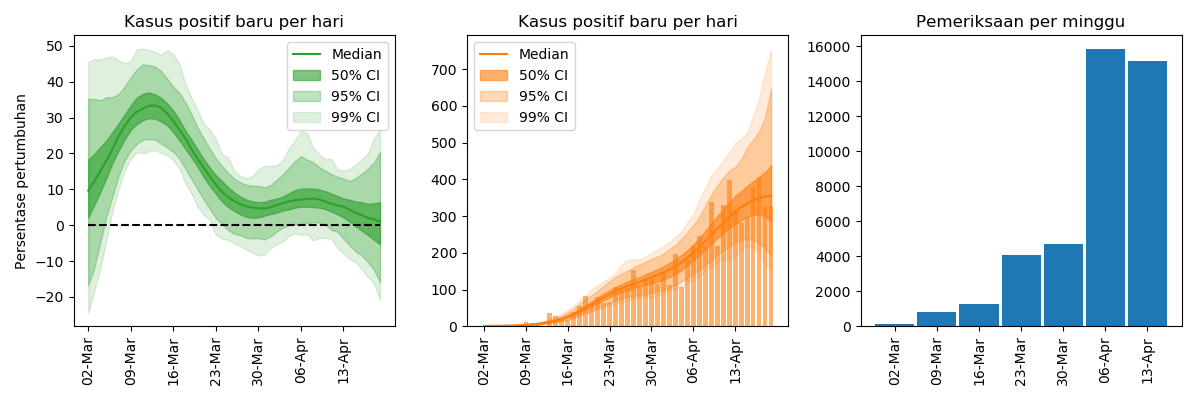
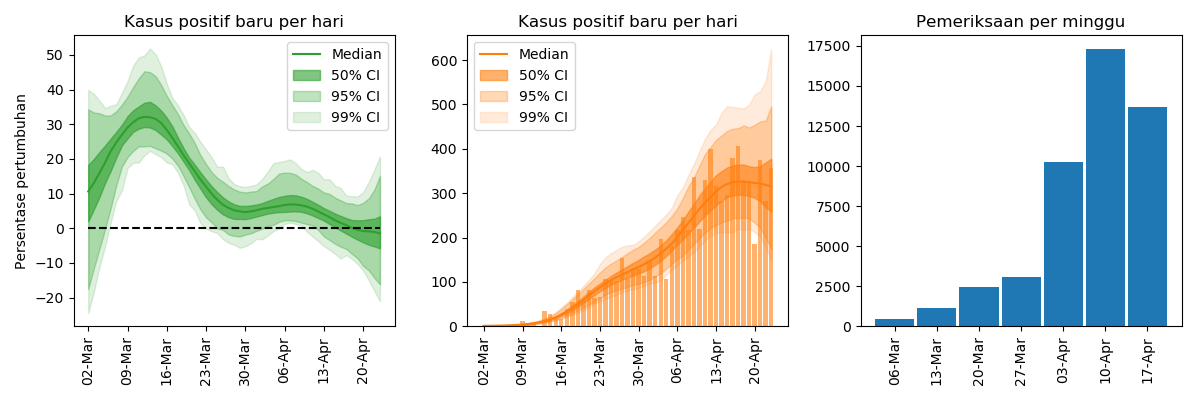
Test update

diff --git a/idcovid19.md b/idcovid19.md
@@ -8,35 +8,40 @@ permalink: /idcovid19/
 ## Apakah kurva penyebaran telah turun?
 
 Sumber data: [KawalCOVID19](https://kawalcovid19.id/)<br/>
-Diperbarui pada: 19/04/2020<br/>
+Diperbarui pada: 23/04/2020<br/>
 Metode dapat dilihat di [sini]({{ site.baseurl }}/2020/04/17/COVID19-has-the-curve-flatten/)
 
 #### Indonesia
 
-Hasil: belum dapat disimpulkan
+Probabilitas menurun: \\(38\%\\)<br/>
+Hasil: kurva terlihat turun, tapi jumlah tes juga menurun
 
 <img title="Indonesia" src="{{ site.baseurl }}/assets/idcovid19-daily/id_new_cases.png" width="100%"/>
 
 #### Jakarta
 
-Hasil: belum dapat disimpulkan
+Probabilitas menurun: \\(28\%\\)<br/>
+Hasil: kurva terlihat turun, tapi jumlah tes juga menurun
 
 <img title="Jakarta" src="{{ site.baseurl }}/assets/idcovid19-daily/idprov_jakarta_new_cases.png" width="100%"/>
 
 #### Jabar
 
-Hasil: belum dapat disimpulkan
+Probabilitas menurun: \\(69\%\\)<br/>
+Hasil: ada indikasi penurunan, tapi belum dapat dipastikan
 
 <img title="Jabar" src="{{ site.baseurl }}/assets/idcovid19-daily/idprov_jabar_new_cases.png" width="100%"/>
 
 #### Jatim
 
+Probabilitas menurun: \\(14\%\\)<br/>
 Hasil: belum dapat disimpulkan
 
 <img title="Jatim" src="{{ site.baseurl }}/assets/idcovid19-daily/idprov_jatim_new_cases.png" width="100%"/>
 
 #### Sulsel
 
-Hasil: belum dapat disimpulkan
+Probabilitas menurun: \\(38\%\\)<br/>
+Hasil: kurva terlihat turun, tapi jumlah tes juga menurun
 
 <img title="Sulsel" src="{{ site.baseurl }}/assets/idcovid19-daily/idprov_sulsel_new_cases.png" width="100%"/>
